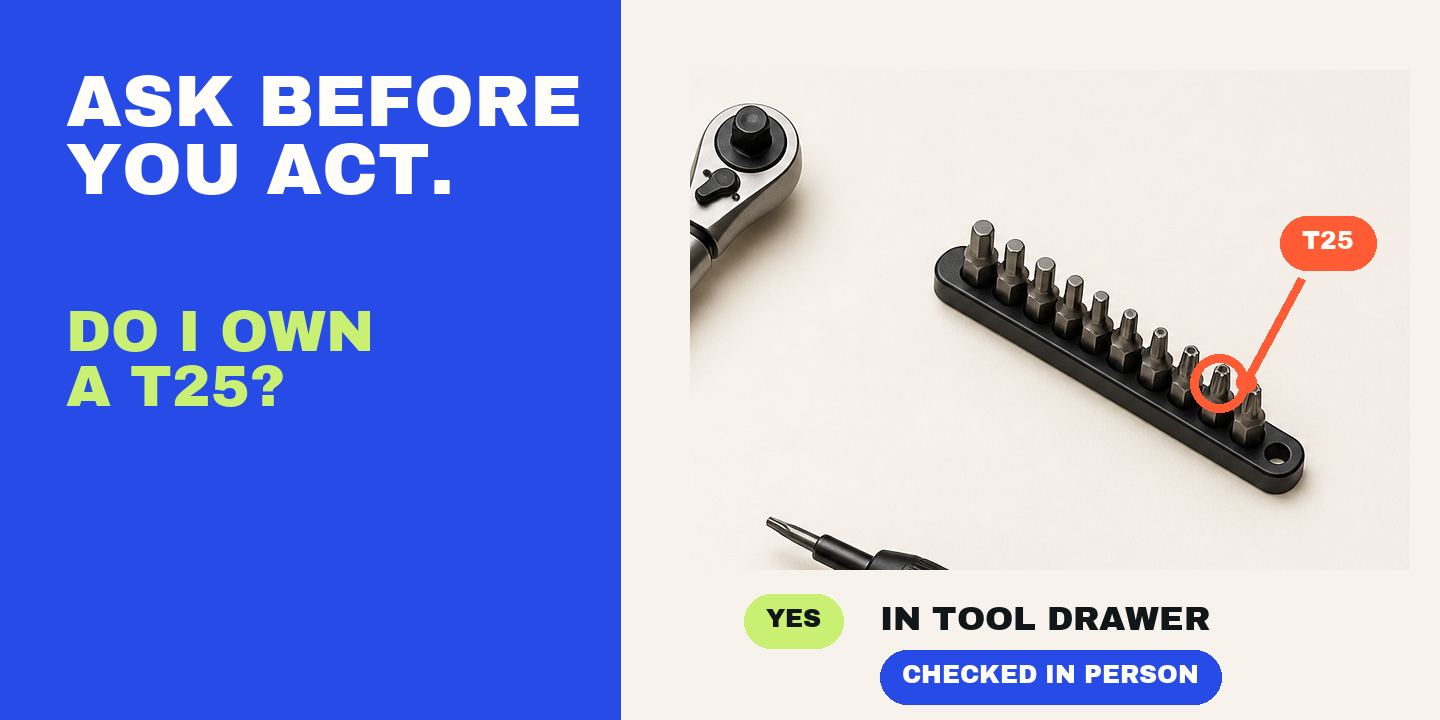
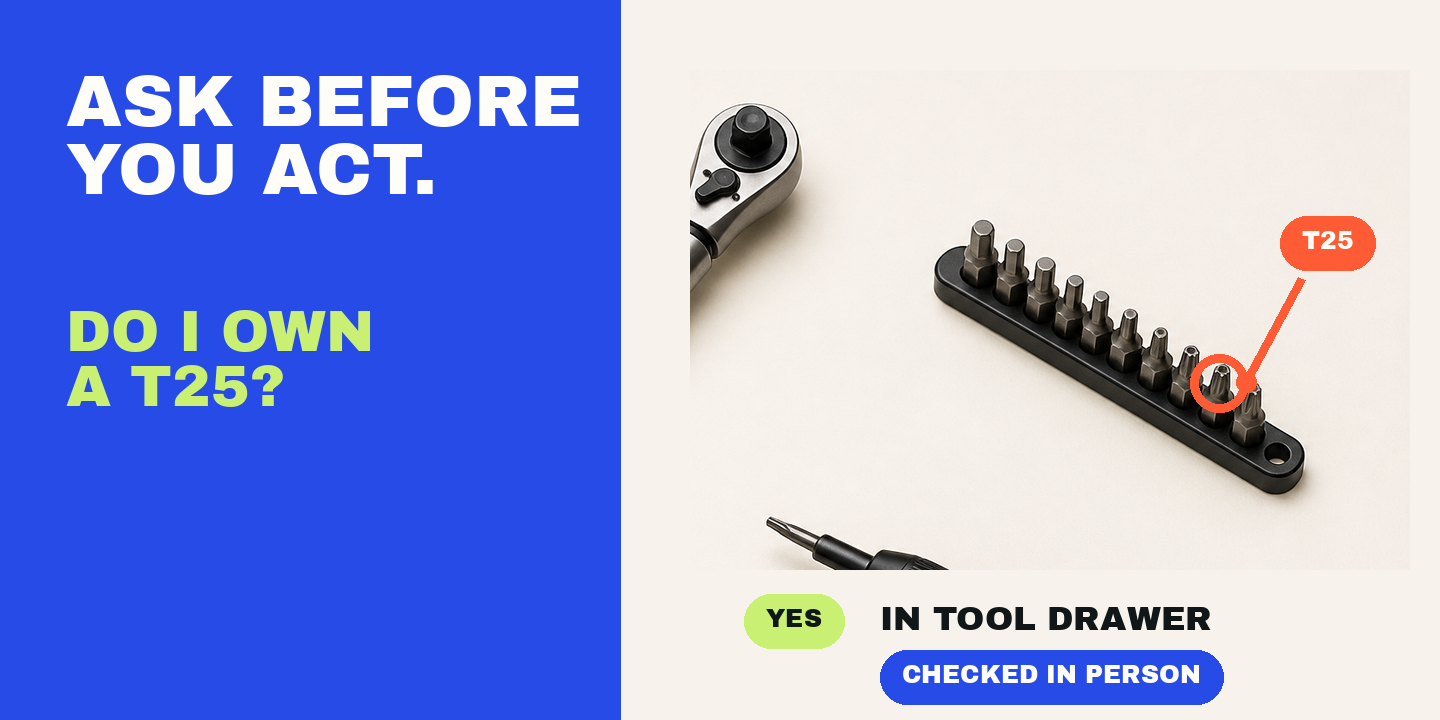
Make README visuals reproducible across platforms
Use Linux as the canonical raster authority, exercise semantic and structural regeneration on macOS, and clarify the insurance-preparation route in the physical-world map.\n\nAssisted-by: Claude (claude-opus-5)

diff --git a/scripts/check-readme-visuals.py b/scripts/check-readme-visuals.py
@@ -1,5 +1,10 @@
 #!/usr/bin/env python3
-"""Fail when README visuals or their reproducible sources drift."""
+"""Fail when README visuals or their reproducible sources drift.
+
+Linux is the canonical raster platform because FreeType output differs by OS.
+Every platform reruns the real CLI scenario and checks geometry and timing; Linux
+also requires decoded pixel identity.
+"""
 
 import subprocess
 import sys
@@ -36,12 +41,17 @@ def frame_durations(image: Image.Image) -> list[int | None]:
     return durations
 
 
-def check_same_pixels(expected_path: Path, actual_path: Path) -> None:
+def check_same_structure(expected_path: Path, actual_path: Path) -> None:
     with Image.open(expected_path) as expected, Image.open(actual_path) as actual:
         if expected.size != actual.size or expected.n_frames != actual.n_frames:
             raise SystemExit(f"{expected_path.name}: regenerated dimensions or frames differ")
         if frame_durations(expected) != frame_durations(actual):
             raise SystemExit(f"{expected_path.name}: regenerated timing differs")
+
+
+def check_same_pixels(expected_path: Path, actual_path: Path) -> None:
+    check_same_structure(expected_path, actual_path)
+    with Image.open(expected_path) as expected, Image.open(actual_path) as actual:
         for frame in range(expected.n_frames):
             expected.seek(frame)
             actual.seek(frame)
@@ -57,7 +67,12 @@ def check_reproduction() -> None:
             check=True,
         )
         for name in EXPECTED_VISUALS:
-            check_same_pixels(ASSETS / name, Path(temporary) / name)
+            expected = ASSETS / name
+            actual = Path(temporary) / name
+            if sys.platform == "linux":
+                check_same_pixels(expected, actual)
+            else:
+                check_same_structure(expected, actual)
 
 
 def main() -> None:

diff --git a/scripts/render_readme_visuals.py b/scripts/render_readme_visuals.py
@@ -324,15 +324,15 @@ def render_c(photo: Image.Image, output: Path) -> None:
     draw.polygon(((1010, 450), (988, 436), (988, 464)), fill=INK)
     draw.ellipse((1040, 390, 1160, 510), fill=GREEN)
     label(draw, (1034, 428), "AGENT", INK, 27)
-    draw.line((1170, 360, 1280, 360), fill=INK, width=7)
-    draw.line((1210, 450, 1280, 450), fill=INK, width=7)
-    draw.line((1170, 540, 1280, 540), fill=INK, width=7)
-    draw.polygon(((1280, 360), (1262, 348), (1262, 372)), fill=INK)
-    draw.polygon(((1280, 450), (1262, 438), (1262, 462)), fill=INK)
-    draw.polygon(((1280, 540), (1262, 528), (1262, 552)), fill=INK)
-    pill(draw, (1280, 333), "PACK", GREEN)
-    pill(draw, (1280, 423), "REPAIR", ORANGE, WHITE)
-    pill(draw, (1280, 513), "INSURE", BLUE, WHITE)
+    draw.line((1170, 360, 1215, 360), fill=INK, width=7)
+    draw.line((1170, 450, 1215, 450), fill=INK, width=7)
+    draw.line((1170, 540, 1215, 540), fill=INK, width=7)
+    draw.polygon(((1215, 360), (1197, 348), (1197, 372)), fill=INK)
+    draw.polygon(((1215, 450), (1197, 438), (1197, 462)), fill=INK)
+    draw.polygon(((1215, 540), (1197, 528), (1197, 552)), fill=INK)
+    pill(draw, (1215, 333), "PACK", GREEN)
+    pill(draw, (1215, 423), "REPAIR", ORANGE, WHITE)
+    pill(draw, (1215, 513), "INSURANCE", BLUE, WHITE)
     image.save(output, optimize=True)
 
 

diff --git a/tests/test_public_release_hygiene.py b/tests/test_public_release_hygiene.py
@@ -11,6 +11,7 @@ from pathlib import Path
 
 ROOT = Path(__file__).resolve().parents[1]
 LEAK_CHECK = ROOT / "scripts" / "check-public-leaks.sh"
+CHECKS_WORKFLOW = ROOT / ".github" / "workflows" / "checks.yml"
 
 
 class PublicReleaseHygieneTests(unittest.TestCase):
@@ -122,6 +123,18 @@ class PublicReleaseHygieneTests(unittest.TestCase):
 
         self.assertNotEqual(completed.returncode, 0)
         self.assertIn("unexpected format, size, or dimensions", completed.stderr)
+
+    def test_readme_visuals_are_regenerated_on_linux_and_macos(self) -> None:
+        workflow = CHECKS_WORKFLOW.read_text(encoding="utf-8")
+        test_job, audit_job = workflow.split("\n  audit:\n", maxsplit=1)
+        command = "run: python scripts/check-readme-visuals.py"
+
+        self.assertIn("os: [ubuntu-latest, macos-latest]", test_job)
+        self.assertIn('python: ["3.11", "3.12", "3.13", "3.14"]', test_job)
+        self.assertEqual(test_job.count(command), 1)
+        self.assertIn("if: runner.os == 'macOS' && matrix.python == '3.14'", test_job)
+        self.assertIn("runs-on: ubuntu-latest", audit_job)
+        self.assertEqual(audit_job.count(command), 1)
 
 
 if __name__ == "__main__":

diff --git a/DESIGN.md b/DESIGN.md
@@ -12,4 +12,4 @@ The README explains the product through one physical object, not software chrome
 
 ## Assets
 
-`docs/assets/workshop-specimen.png` is a synthetic source image. `scripts/render_readme_visuals.py` combines it with a bundled, licensed typeface and real CLI results to regenerate all three README visuals. `scripts/check-readme-visuals.py` compares every decoded pixel and animation duration against the committed outputs.
+`docs/assets/workshop-specimen.png` is a synthetic source image. `scripts/render_readme_visuals.py` combines it with a bundled, licensed typeface and real CLI results to regenerate all three README visuals. Linux is the canonical raster platform because FreeType produces different pixels across operating systems. Every platform reruns the CLI scenario and verifies dimensions and timing; Linux also compares every decoded pixel against the committed outputs.
